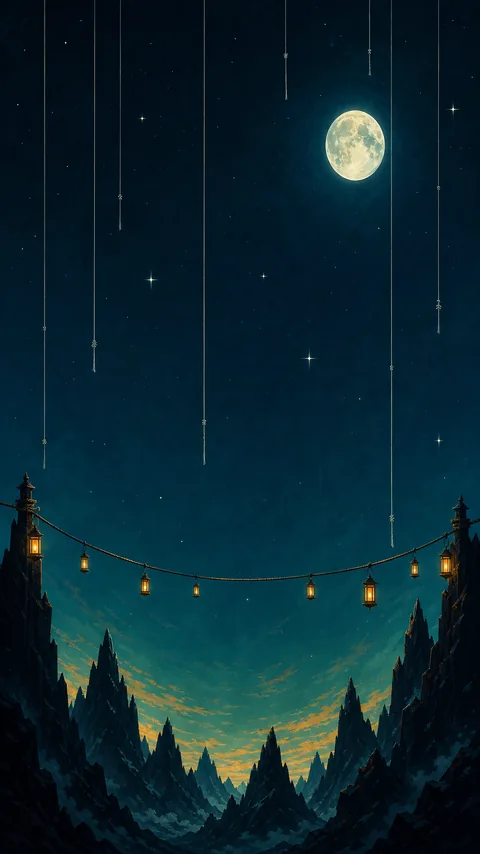
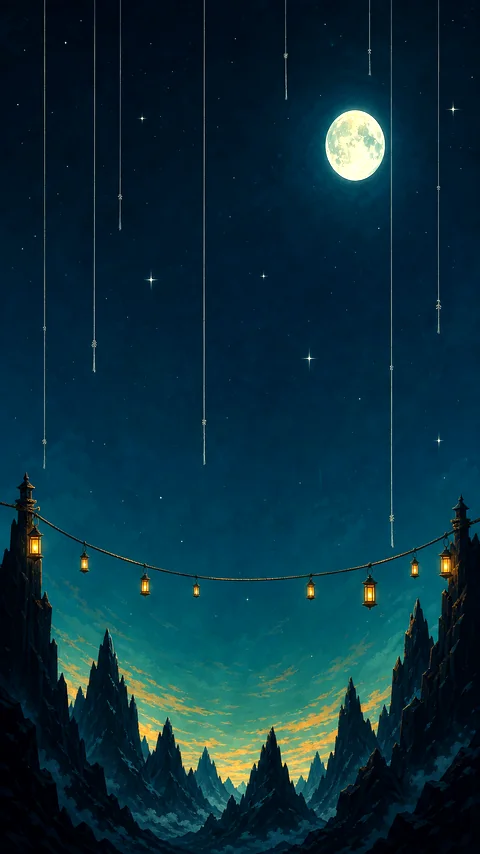
Brighten run lighting and ship painted player lantern
Replace multiply color-grade darkness with a soft ADD lift, cut vignette,
brighten sky/threads, and use illustrated lantern sprites (amber/teal/coral)
in the world atlas with diamond glow wash and sway.

diff --git a/src/game/assets/generate.ts b/src/game/assets/generate.ts
@@ -110,15 +110,14 @@ function makeStar(scene: Phaser.Scene): void {
 
 function makeThread(scene: Phaser.Scene): void {
   const g = gph(scene);
-  g.fillStyle(0xa8e4f5, 0.14);
+  g.fillStyle(0xc5f0ff, 0.22);
   g.fillRect(4, 0, 20, 128);
-  g.fillStyle(0xd4eef8, 0.95);
+  g.fillStyle(0xe8f7ff, 1);
   g.fillRect(12, 0, 4, 128);
-  g.fillStyle(0xffffff, 0.6);
+  g.fillStyle(0xffffff, 0.85);
   g.fillRect(13, 0, 1, 128);
   for (let y = 10; y < 128; y += 26) {
-    // diamond knots
-    g.fillStyle(COLORS.amber, 0.9);
+    g.fillStyle(COLORS.amber, 1);
     g.fillTriangle(14, y - 5, 19, y, 14, y + 5);
     g.fillTriangle(14, y - 5, 9, y, 14, y + 5);
     g.fillStyle(COLORS.amberHot, 1);
@@ -348,17 +347,17 @@ function makeVignette(scene: Phaser.Scene): void {
   const g = gph(scene);
   g.fillStyle(0x000000, 0);
   g.fillRect(0, 0, 64, 64);
-  // softer frame — keep focus without crushing brightness
-  g.fillStyle(0x061018, 0.32);
-  g.fillRect(0, 0, 64, 6);
-  g.fillRect(0, 58, 64, 6);
-  g.fillRect(0, 0, 6, 64);
-  g.fillRect(58, 0, 6, 64);
-  g.fillStyle(0x061018, 0.16);
-  g.fillRect(0, 0, 64, 12);
-  g.fillRect(0, 52, 64, 12);
-  g.fillRect(0, 0, 12, 64);
-  g.fillRect(52, 0, 12, 64);
+  // very light frame only — keep sky readable during run
+  g.fillStyle(0x061018, 0.14);
+  g.fillRect(0, 0, 64, 4);
+  g.fillRect(0, 60, 64, 4);
+  g.fillRect(0, 0, 4, 64);
+  g.fillRect(60, 0, 4, 64);
+  g.fillStyle(0x061018, 0.07);
+  g.fillRect(0, 0, 64, 8);
+  g.fillRect(0, 56, 64, 8);
+  g.fillRect(0, 0, 8, 64);
+  g.fillRect(56, 0, 8, 64);
   g.generateTexture('vignette', 64, 64);
   g.destroy();
 }
@@ -567,85 +566,109 @@ export function drawLantern(
   scene: Phaser.Scene,
   x: number,
   y: number,
-  skin: SkinDef,
+  _skin: SkinDef,
   hue: HueId,
   scale = 1,
 ): Phaser.GameObjects.Container {
   const glowColor = HUE_HEX[hue];
+  const key = `lantern-${hue}`;
+  const hasArt = scene.textures.exists(key);
 
-  // soft rectangular light wash — not giant ovals
-  const farGlow = scene.add.rectangle(0, 10, 70, 70, glowColor, 0.1).setOrigin(0.5);
-  const outerGlow = scene.add.rectangle(0, 8, 52, 56, glowColor, 0.2).setOrigin(0.5);
-  const midGlow = scene.add.rectangle(0, 10, 38, 42, glowColor, 0.28).setOrigin(0.5);
+  // diamond wash behind player — soft light without oval blobs
+  const farGlow = scene.add
+    .image(0, 6, scene.textures.exists('lane-glow') ? 'lane-glow' : 'px')
+    .setTint(glowColor)
+    .setAlpha(0.35)
+    .setScale(hasArt ? 2.4 : 1.6)
+    .setBlendMode(Phaser.BlendModes.ADD);
+  const midGlow = scene.add
+    .image(0, 4, scene.textures.exists('lane-glow') ? 'lane-glow' : 'px')
+    .setTint(glowColor)
+    .setAlpha(0.5)
+    .setScale(hasArt ? 1.55 : 1.1)
+    .setBlendMode(Phaser.BlendModes.ADD);
 
-  const cap = scene.add.rectangle(0, -28, 26, 10, 0x3a4d5e, 1).setOrigin(0.5);
-  const hook = scene.add.rectangle(0, -36, 4, 12, 0xc8d8e6, 1).setOrigin(0.5, 1);
-  const ring = scene.add.rectangle(0, -40, 10, 10, 0x000000, 0).setOrigin(0.5);
-  ring.setStrokeStyle(2, 0xc8d8e6, 1);
+  let body: Phaser.GameObjects.GameObject;
+  let flame: Phaser.GameObjects.Triangle | undefined;
+  let glass: Phaser.GameObjects.Rectangle | undefined;
 
-  const frame = scene.add.rectangle(0, 4, 34, 40, 0x243544, 1).setOrigin(0.5);
-  frame.setStrokeStyle(2, 0xd4e4f0, 0.85);
-  const glass = scene.add.rectangle(0, 4, 26, 32, skin.glow, 0.5).setOrigin(0.5);
+  if (hasArt) {
+    body = scene.add.image(0, 0, key).setOrigin(0.5).setDisplaySize(78, 98);
+  } else {
+    // procedural fallback
+    const cap = scene.add.rectangle(0, -28, 26, 10, 0x3a4d5e, 1).setOrigin(0.5);
+    const hook = scene.add.rectangle(0, -36, 4, 12, 0xc8d8e6, 1).setOrigin(0.5, 1);
+    const frame = scene.add.rectangle(0, 4, 34, 40, 0x243544, 1).setOrigin(0.5);
+    frame.setStrokeStyle(2, 0xd4e4f0, 0.85);
+    glass = scene.add.rectangle(0, 4, 26, 32, HUE_HEX[hue], 0.45).setOrigin(0.5);
+    flame = scene.add.triangle(0, 4, 0, -14, 10, 14, -10, 14, glowColor, 1);
+    const flameCore = scene.add.triangle(0, 6, 0, -6, 5, 10, -5, 10, COLORS.amberHot, 1);
+    const base = scene.add.rectangle(0, 26, 30, 8, 0x3a4d5e, 1).setOrigin(0.5);
+    body = scene.add.container(0, 0, [hook, cap, frame, glass, flame, flameCore, base]);
+  }
 
-  // stylized triangular flame
-  const flame = scene.add.triangle(0, 4, 0, -14, 10, 14, -10, 14, glowColor, 1);
-  const flameCore = scene.add.triangle(0, 6, 0, -6, 5, 10, -5, 10, COLORS.amberHot, 1);
-  const flameTip = scene.add.triangle(0, -2, 0, -10, 3, 2, -3, 2, 0xfffaf0, 1);
-
-  const base = scene.add.rectangle(0, 26, 30, 8, 0x3a4d5e, 1).setOrigin(0.5);
-
-  const c = scene.add.container(x, y, [
-    farGlow,
-    outerGlow,
-    midGlow,
-    hook,
-    ring,
-    cap,
-    frame,
-    glass,
-    flame,
-    flameCore,
-    flameTip,
-    base,
-  ]);
-  c.setData('outerGlow', outerGlow);
+  const c = scene.add.container(x, y, [farGlow, midGlow, body]);
+  c.setData('outerGlow', midGlow);
   c.setData('midGlow', midGlow);
   c.setData('farGlow', farGlow);
+  c.setData('body', body);
   c.setData('flame', flame);
   c.setData('glass', glass);
+  c.setData('hue', hue);
   c.setScale(scale);
   c.setDepth(20);
 
   scene.tweens.add({
-    targets: [flame, flameCore],
-    scaleX: 1.08,
-    scaleY: 0.92,
-    duration: 260,
+    targets: [midGlow, farGlow],
+    alpha: { from: midGlow.alpha * 0.75, to: midGlow.alpha },
+    duration: 900,
     yoyo: true,
     repeat: -1,
     ease: 'Sine.easeInOut',
   });
-  scene.tweens.add({
-    targets: [outerGlow, farGlow],
-    alpha: { from: 0.12, to: 0.28 },
-    duration: 900,
-    yoyo: true,
-    repeat: -1,
-  });
+  if (hasArt && body instanceof Phaser.GameObjects.Image) {
+    scene.tweens.add({
+      targets: body,
+      angle: { from: -2.5, to: 2.5 },
+      duration: 1800,
+      yoyo: true,
+      repeat: -1,
+      ease: 'Sine.easeInOut',
+    });
+  } else if (flame) {
+    scene.tweens.add({
+      targets: flame,
+      scaleX: 1.08,
+      scaleY: 0.92,
+      duration: 260,
+      yoyo: true,
+      repeat: -1,
+      ease: 'Sine.easeInOut',
+    });
+  }
 
   return c;
 }
 
 export function recolorDrawnLantern(lantern: Phaser.GameObjects.Container, hue: HueId): void {
   const color = HUE_HEX[hue];
-  const outerGlow = lantern.getData('outerGlow') as Phaser.GameObjects.Rectangle | undefined;
-  const midGlow = lantern.getData('midGlow') as Phaser.GameObjects.Rectangle | undefined;
-  const farGlow = lantern.getData('farGlow') as Phaser.GameObjects.Rectangle | undefined;
+  const outerGlow = lantern.getData('outerGlow') as Phaser.GameObjects.Image | undefined;
+  const midGlow = lantern.getData('midGlow') as Phaser.GameObjects.Image | undefined;
+  const farGlow = lantern.getData('farGlow') as Phaser.GameObjects.Image | undefined;
+  const body = lantern.getData('body') as Phaser.GameObjects.Image | Phaser.GameObjects.Container | undefined;
   const flame = lantern.getData('flame') as Phaser.GameObjects.Triangle | undefined;
-  outerGlow?.setFillStyle(color, 0.2);
-  midGlow?.setFillStyle(color, 0.28);
-  farGlow?.setFillStyle(color, 0.1);
+
+  outerGlow?.setTint(color);
+  midGlow?.setTint(color);
+  farGlow?.setTint(color);
   flame?.setFillStyle(color, 1);
+
+  if (body instanceof Phaser.GameObjects.Image) {
+    const key = `lantern-${hue}`;
+    if (lantern.scene.textures.exists(key)) body.setTexture(key);
+    else body.setTint(color);
+  }
+  lantern.setData('hue', hue);
 }
 
 export function laneX(width: number, lane: number, lanes = 3, pad = 0.18): number {

diff --git a/src/game/scenes/GameScene.ts b/src/game/scenes/GameScene.ts
@@ -217,9 +217,9 @@ export class GameScene extends Phaser.Scene {
     }
 
     this.grade.attach(this, {
-      vignetteAlpha: this.mode.id === 'storm' ? 0.55 : 0.38,
-      gradeTint: this.mode.id === 'storm' ? 0x1a2840 : 0x1a3a55,
-      gradeAlpha: this.mode.id === 'storm' ? 0.14 : 0.08,
+      vignetteAlpha: this.mode.id === 'storm' ? 0.2 : 0.1,
+      gradeTint: this.mode.id === 'storm' ? 0xb8d4ff : 0xffe6c8,
+      gradeAlpha: this.mode.id === 'storm' ? 0.05 : 0.045,
     });
 
     this.trailEmitter = this.add.particles(0, 0, 'px', {
@@ -962,7 +962,7 @@ export class GameScene extends Phaser.Scene {
     // relight: wick from dark → flame bloom
     this.lantern.setAlpha(0.15).setScale(0.55);
     const flame = this.lantern.getData('flame') as Phaser.GameObjects.Triangle | undefined;
-    const outer = this.lantern.getData('outerGlow') as Phaser.GameObjects.Rectangle | undefined;
+    const outer = this.lantern.getData('outerGlow') as Phaser.GameObjects.Image | undefined;
     flame?.setScale(0.2);
     outer?.setAlpha(0);
 

diff --git a/src/visual/ColorGrade.ts b/src/visual/ColorGrade.ts
@@ -17,10 +17,10 @@ export class ColorGrade {
         .setScrollFactor(0);
     }
     this.grade = scene.add
-      .rectangle(width / 2, height / 2, width, height, opts.gradeTint ?? 0x1a3a55, opts.gradeAlpha ?? 0.08)
+      .rectangle(width / 2, height / 2, width, height, opts.gradeTint ?? 0xffe6c8, opts.gradeAlpha ?? 0.04)
       .setDepth(Depth.GRADE)
       .setScrollFactor(0)
-      .setBlendMode(Phaser.BlendModes.MULTIPLY);
+      .setBlendMode(Phaser.BlendModes.ADD);
   }
 
   setMood(opts: { vignetteAlpha?: number; gradeTint?: number; gradeAlpha?: number }): void {
@@ -43,7 +43,7 @@ export class ColorGrade {
       duration: ms,
       ease: 'Sine.easeOut',
       onComplete: () => {
-        this.grade?.setFillStyle(0x1a3a55, prevA);
+        this.grade?.setFillStyle(0xffe6c8, prevA);
         this.grade?.setAlpha(prevA);
       },
     });

diff --git a/src/game/assets/scenery.ts b/src/game/assets/scenery.ts
@@ -54,9 +54,9 @@ export function placeNightScenery(
     const far = scene.add
       .image(width / 2, height * 0.78, 'ridge-far')
       .setDepth(Depth.PARALLAX_FAR)
-      .setAlpha(0.35)
+      .setAlpha(0.18)
       .setDisplaySize(width * 1.15, height * 0.28)
-      .setTint(0x6a90b0)
+      .setTint(0x9ab8d0)
       .setData('parallax', 6)
       .setData('drift', 8);
     opts.parallaxLayers?.push(far);
@@ -67,9 +67,9 @@ export function placeNightScenery(
     const near = scene.add
       .image(width / 2, height * 0.88, 'ridge-near')
       .setDepth(Depth.PARALLAX_FAR + 0.5)
-      .setAlpha(0.45)
+      .setAlpha(0.22)
       .setDisplaySize(width * 1.2, height * 0.26)
-      .setTint(0x4a6a88)
+      .setTint(0x7a9bb8)
       .setData('parallax', 14)
       .setData('drift', 14);
     opts.parallaxLayers?.push(near);
